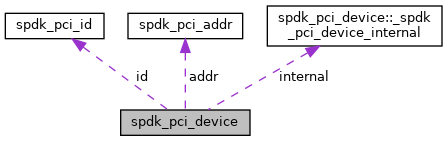
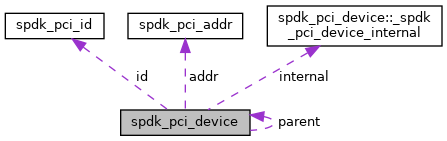
doc: update to f0fd8d4b48470de7d81ba8a8b22a01b629f80a03

Changed region(s): [[0.5526, 0.7943, 0.7271, 0.9078], [0.5526, 0.9078, 0.5817, 0.9362]]

diff --git a/doc/navtreeindex19.js b/doc/navtreeindex19.js
@@ -122,9 +122,10 @@ var NAVTREEINDEX19 =
 "structspdk__pci__addr.html#af0fce229a3e9836a886ab84b108330b5":[12,0,224,1],
 "structspdk__pci__device.html":[12,0,225],
 "structspdk__pci__device.html#a100e06207ed1daa739b8ebe241ed7d0c":[12,0,225,4],
-"structspdk__pci__device.html#a1dca220b8e88db1b94c36996002b6629":[12,0,225,9],
+"structspdk__pci__device.html#a1dca220b8e88db1b94c36996002b6629":[12,0,225,10],
 "structspdk__pci__device.html#a2348ac8846646340935df9b77490c113":[12,0,225,1],
-"structspdk__pci__device.html#a407b305cec81c217f76d1b66d166075f":[12,0,225,10],
+"structspdk__pci__device.html#a407b305cec81c217f76d1b66d166075f":[12,0,225,11],
+"structspdk__pci__device.html#a89015870c131e3b9236f0c90813999c7":[12,0,225,9],
 "structspdk__pci__device.html#a95f4ccc44463ca7099dd5b399304c1c5":[12,0,225,3],
 "structspdk__pci__device.html#abfd4d2fe4ff02074a9a0652853b868d8":[12,0,225,8],
 "structspdk__pci__device.html#ace5ed5bde292395cee8d0de26ce049dd":[12,0,225,2],
@@ -248,6 +249,5 @@ var NAVTREEINDEX19 =
 "structspdk__scsi__pr__in__report__capabilities__data.html#a18d71dea2bcf560015a453b6382d3c29":[12,0,241,11],
 "structspdk__scsi__pr__in__report__capabilities__data.html#a29a7afa553dcc572ec63b6331679f43d":[12,0,241,12],
 "structspdk__scsi__pr__in__report__capabilities__data.html#a3438faf62baebaabdf3e07b1093975c3":[12,0,241,5],
-"structspdk__scsi__pr__in__report__capabilities__data.html#a35bea65ca66c6fa628cec730eac860a1":[12,0,241,1],
-"structspdk__scsi__pr__in__report__capabilities__data.html#a364ac62e61045f137de15d8051866775":[12,0,241,9]
+"structspdk__scsi__pr__in__report__capabilities__data.html#a35bea65ca66c6fa628cec730eac860a1":[12,0,241,1]
 };

diff --git a/doc/navtreeindex20.js b/doc/navtreeindex20.js
@@ -1,5 +1,6 @@
 var NAVTREEINDEX20 =
 {
+"structspdk__scsi__pr__in__report__capabilities__data.html#a364ac62e61045f137de15d8051866775":[12,0,241,9],
 "structspdk__scsi__pr__in__report__capabilities__data.html#a5fcf19bdd210b0e38e4d886b26116b64":[12,0,241,20],
 "structspdk__scsi__pr__in__report__capabilities__data.html#a655b65d3a8ffaf180695372541eb25da":[12,0,241,10],
 "structspdk__scsi__pr__in__report__capabilities__data.html#a68cb76f5d33896da1609e022ab366f03":[12,0,241,6],
@@ -248,6 +249,5 @@ var NAVTREEINDEX20 =
 "unionspdk__nvme__async__event__completion.html#a1a09c0d1bcd9786262e0f5bc63b7293f":[12,0,87,0],
 "unionspdk__nvme__async__event__completion.html#a20c8319fea9c5a80c719b063324c5bac":[12,0,87,4],
 "unionspdk__nvme__async__event__completion.html#a2e47f8120306d7ad0722cff7c9fd2805":[12,0,87,2],
-"unionspdk__nvme__async__event__completion.html#a337a8431d9cbeeb1d9f2037a033f7388":[12,0,87,6],
-"unionspdk__nvme__async__event__completion.html#a6a0f68993c8d4e9facb713ae1942c0a9":[12,0,87,3]
+"unionspdk__nvme__async__event__completion.html#a337a8431d9cbeeb1d9f2037a033f7388":[12,0,87,6]
 };

diff --git a/doc/structspdk__pci__device.html b/doc/structspdk__pci__device.html
@@ -166,6 +166,9 @@ Data Structures</h2></td></tr>
 </table><table class="memberdecls">
 <tr class="heading"><td colspan="2"><h2 class="groupheader"><a name="pub-attribs"></a>
 Data Fields</h2></td></tr>
+<tr class="memitem:a89015870c131e3b9236f0c90813999c7"><td class="memItemLeft" align="right" valign="top"><a id="a89015870c131e3b9236f0c90813999c7"></a>
+struct <a class="el" href="structspdk__pci__device.html">spdk_pci_device</a> *&#160;</td><td class="memItemRight" valign="bottom"><b>parent</b></td></tr>
+<tr class="separator:a89015870c131e3b9236f0c90813999c7"><td class="memSeparator" colspan="2">&#160;</td></tr>
 <tr class="memitem:af862ae8f5abaf025ca2d94210ad1a073"><td class="memItemLeft" align="right" valign="top"><a id="af862ae8f5abaf025ca2d94210ad1a073"></a>
 void *&#160;</td><td class="memItemRight" valign="bottom"><b>dev_handle</b></td></tr>
 <tr class="separator:af862ae8f5abaf025ca2d94210ad1a073"><td class="memSeparator" colspan="2">&#160;</td></tr>

diff --git a/doc/navtreeindex2.js b/doc/navtreeindex2.js
@@ -213,8 +213,8 @@ var NAVTREEINDEX2 =
 "group__bdev__io__submit__functions.html#ga01380182ca77b43e2a854aa59058fe12":[13,0,3,83],
 "group__bdev__io__submit__functions.html#ga047f8a9f8d0a3d1d7bfcdf0a9838b261":[11,0,18],
 "group__bdev__io__submit__functions.html#ga047f8a9f8d0a3d1d7bfcdf0a9838b261":[13,0,3,85],
-"group__bdev__io__submit__functions.html#ga12da8917f525a6e11cbf22b2b7652c89":[13,0,3,82],
 "group__bdev__io__submit__functions.html#ga12da8917f525a6e11cbf22b2b7652c89":[11,0,15],
+"group__bdev__io__submit__functions.html#ga12da8917f525a6e11cbf22b2b7652c89":[13,0,3,82],
 "group__bdev__io__submit__functions.html#ga4b500ce84df1d2551f76e635c9dafbd5":[11,0,5],
 "group__bdev__io__submit__functions.html#ga4b500ce84df1d2551f76e635c9dafbd5":[13,0,3,68],
 "group__bdev__io__submit__functions.html#ga55483d5ae010c514b37b976ad803b4b2":[11,0,9],

diff --git a/doc/navtreedata.js b/doc/navtreedata.js
@@ -87,9 +87,9 @@ var NAVTREEINDEX =
 "structspdk__nvme__registers.html#a5cc56fd2557ed7ffed6b00b3eac5bf31",
 "structspdk__nvmf__fabric__connect__data.html#afce7c6a79de1868873a52c795be20a79",
 "structspdk__ocssd__dev__lba__fmt.html#a22c7ae5974d464cde3f1cedf57a9ad61",
-"structspdk__scsi__pr__in__report__capabilities__data.html#a5fcf19bdd210b0e38e4d886b26116b64",
-"unionspdk__nvme__async__event__completion.html#accdc3dc718fb2531d775ba0eb2106b23",
-"version_8h.html"
+"structspdk__scsi__pr__in__report__capabilities__data.html#a364ac62e61045f137de15d8051866775",
+"unionspdk__nvme__async__event__completion.html#a6a0f68993c8d4e9facb713ae1942c0a9",
+"vagrant.html#vagrant_intro"
 ];
 
 var SYNCONMSG = 'click to disable panel synchronisation';

diff --git a/doc/navtreeindex21.js b/doc/navtreeindex21.js
@@ -1,5 +1,6 @@
 var NAVTREEINDEX21 =
 {
+"unionspdk__nvme__async__event__completion.html#a6a0f68993c8d4e9facb713ae1942c0a9":[12,0,87,3],
 "unionspdk__nvme__async__event__completion.html#accdc3dc718fb2531d775ba0eb2106b23":[12,0,87,5],
 "unionspdk__nvme__bpinfo__register.html":[12,0,88],
 "unionspdk__nvme__bpinfo__register.html#a0a0f2d47ec4131b202ce50e301a22a43":[12,0,88,3],
@@ -248,6 +249,5 @@ var NAVTREEINDEX21 =
 "uuid_8h.html#aece646828010187f78ebe02c5642ce4f":[13,0,51,2],
 "vagrant.html":[1,2],
 "vagrant.html#vagrant_config":[1,2,1],
-"vagrant.html#vagrant_example":[1,2,2],
-"vagrant.html#vagrant_intro":[1,2,0]
+"vagrant.html#vagrant_example":[1,2,2]
 };

diff --git a/doc/structspdk__pci__device.js b/doc/structspdk__pci__device.js
@@ -9,6 +9,7 @@ var structspdk__pci__device =
     [ "id", "structspdk__pci__device.html#af7d6a15271c10ae097804f1a0a8007b4", null ],
     [ "internal", "structspdk__pci__device.html#acf5bb1ac8866442bd12587452e531c6c", null ],
     [ "map_bar", "structspdk__pci__device.html#abfd4d2fe4ff02074a9a0652853b868d8", null ],
+    [ "parent", "structspdk__pci__device.html#a89015870c131e3b9236f0c90813999c7", null ],
     [ "socket_id", "structspdk__pci__device.html#a1dca220b8e88db1b94c36996002b6629", null ],
     [ "unmap_bar", "structspdk__pci__device.html#a407b305cec81c217f76d1b66d166075f", null ]
 ];

diff --git a/doc/navtreeindex22.js b/doc/navtreeindex22.js
@@ -1,5 +1,6 @@
 var NAVTREEINDEX22 =
 {
+"vagrant.html#vagrant_intro":[1,2,0],
 "version_8h.html":[13,0,52],
 "version_8h.html#a044fb88313d084d910632cea5a06c620":[13,0,52,8],
 "version_8h.html#a1636e53b1038906ece3a9addb0473bf0":[13,0,52,11],
